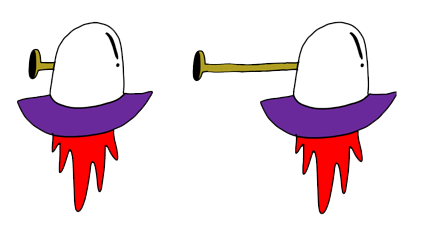
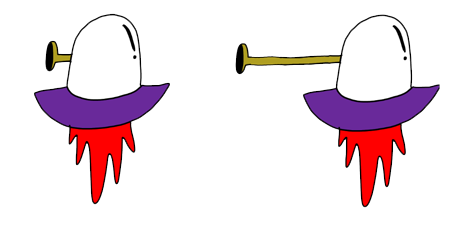
add enemy big

Changed region(s): [[0.4282, 0.0617, 0.9788, 0.9559], [0.0306, 0.0617, 0.3976, 0.9251], [0.3059, 0.4934, 0.3365, 0.5242]]

diff --git a/ProjectGame/main.cpp b/ProjectGame/main.cpp
@@ -10,6 +10,7 @@
 #include "Player.h"
 #include "Bullet.h"
 #include "Enemy.h"
+#include "Enemy1.h"
 #include "Animation.h"
 #include "Mainmenu.h"
 #include "Gameover.h"
@@ -138,9 +139,9 @@ int main()
 	vector<Enemy> enemies4;
 	
 	sf::Texture enemyBig;
-	enemyBig.loadFromFile("enemy/bigg.png");
-	Enemy Enemybig1(&enemyBig);
-	vector<Enemy> enemies5;
+	enemyBig.loadFromFile("enemy/big1.png");
+	Enemy1 Enemybig1(&enemyBig);
+	vector<Enemy1> enemies5;
 
 
 	//enemies animation
@@ -348,7 +349,7 @@ int main()
 
 		if (Howtoplaystate == 1)
 		{
-			cout << flag[1];
+			/*cout << flag[1];*/
 			window.draw(bc);
 
 			if (bc.getGlobalBounds().contains(sf::Vector2f(sf::Mouse::getPosition(window))))
@@ -461,10 +462,10 @@ int main()
 					enemies4.push_back(Enemy(Enemymedium2));
 				}
 
-				if (CountTime >= 120)
+				if (CountTime >= 0)
 				{
-					Enemybig1.Sprite_enemy.setPosition(window.getSize().x, rand() % int(window.getSize().y - Enemybig1.Sprite_enemy.getSize().y));
-					enemies5.push_back(Enemy(Enemybig1));
+					Enemybig1.Sprite_enemy_1.setPosition(window.getSize().x, rand() % int(window.getSize().y - Enemybig1.Sprite_enemy_1.getSize().y));
+					enemies5.push_back(Enemy1(Enemybig1));
 				}
 
 				enemySpawnTimer = 0;
@@ -513,7 +514,7 @@ int main()
 			for (int i = 0; i < enemies5.size(); i++)
 			{
 				enemies5[i].Update(deltatime, i);
-				if (enemies5[i].Sprite_enemy.getPosition().x < -130)
+				if (enemies5[i].Sprite_enemy_1.getPosition().x < -130)
 				{
 					enemies5.erase(enemies5.begin() + i);
 				}
@@ -611,13 +612,13 @@ int main()
 				for (size_t j = 0; j < enemies5.size(); j++)
 				{
 
-					if (bullets[i].Sprite_bullet.getGlobalBounds().intersects(enemies5[j].Sprite_enemy.getGlobalBounds()))
+					if (bullets[i].Sprite_bullet.getGlobalBounds().intersects(enemies5[j].Sprite_enemy_1.getGlobalBounds()))
 					{
 						enemies5[i].bloodenemybig--;
 						bullets.erase(bullets.begin() + i);
 						if (enemies5[i].bloodenemybig == 0)
 						{
-							score += 50;
+							score += 30;
 							enemies5.erase(enemies5.begin() + j);
 
 						}
@@ -668,7 +669,7 @@ int main()
 
 			for (size_t i = 0; i < enemies5.size(); i++)
 			{
-				if (player.Sprite_ship.getGlobalBounds().intersects(enemies5[i].Sprite_enemy.getGlobalBounds()))
+				if (player.Sprite_ship.getGlobalBounds().intersects(enemies5[i].Sprite_enemy_1.getGlobalBounds()))
 				{
 					enemies5.erase(enemies5.begin() + i);
 					blood -= 1;
@@ -704,8 +705,7 @@ int main()
 			for (Background& background : backgrounds)
 				background.Draw(window);
 
-			//draw pausebutton
-			pausemenu.Draw(window);
+			
 
 			player.Update();
 			player.move(deltatime);
@@ -754,6 +754,9 @@ int main()
 
 			//draw text
 			window.draw(textscore);
+
+			//draw pausebutton
+			pausemenu.Draw(window);
 
 			//draw heart
 			if (blood == 6)

diff --git a/ProjectGame/Mainmenu.cpp b/ProjectGame/Mainmenu.cpp
@@ -9,7 +9,7 @@ Mainmenu::Mainmenu(float width, float height)
 	mainMenu[0].setFillColor(sf::Color::Black);
 	mainMenu[0].setString("PLAYGAME");
 	mainMenu[0].setCharacterSize(50);
-	mainMenu[0].setPosition(490, 270);
+	mainMenu[0].setPosition(495, 270);
 	mainMenu[0].setOrigin(mainMenu[0].getGlobalBounds().width / 2, mainMenu[0].getGlobalBounds().height / 2);
 
 	//how to play
@@ -17,7 +17,7 @@ Mainmenu::Mainmenu(float width, float height)
 	mainMenu[1].setFillColor(sf::Color::Black);
 	mainMenu[1].setString("HOW TO PLAY");
 	mainMenu[1].setCharacterSize(50);
-	mainMenu[1].setPosition(480, 340);
+	mainMenu[1].setPosition(485, 340);
 	mainMenu[1].setOrigin(mainMenu[1].getGlobalBounds().width / 2, mainMenu[1].getGlobalBounds().height / 2);
 
 	//score
@@ -25,7 +25,7 @@ Mainmenu::Mainmenu(float width, float height)
 	mainMenu[2].setFillColor(sf::Color::Black);
 	mainMenu[2].setString("SCORE");
 	mainMenu[2].setCharacterSize(50);
-	mainMenu[2].setPosition(475, 410);
+	mainMenu[2].setPosition(480, 410);
 	mainMenu[2].setOrigin(mainMenu[2].getGlobalBounds().width / 2, mainMenu[2].getGlobalBounds().height / 2);
 
 	//quit
@@ -33,7 +33,7 @@ Mainmenu::Mainmenu(float width, float height)
 	mainMenu[3].setFillColor(sf::Color::Black);
 	mainMenu[3].setString("QUIT");
 	mainMenu[3].setCharacterSize(50);
-	mainMenu[3].setPosition(470, 480);
+	mainMenu[3].setPosition(475, 480);
 	mainMenu[3].setOrigin(mainMenu[3].getGlobalBounds().width / 2, mainMenu[3].getGlobalBounds().height / 2);
 
 	

diff --git a/ProjectGame/Enemy1.cpp b/ProjectGame/Enemy1.cpp
@@ -1,0 +1,45 @@
+#include "Enemy1.h"
+
+Enemy1::Enemy1(sf::Texture* texture)
+{
+	Sprite_enemy_1.setTexture(texture);
+	Sprite_enemy_1.setSize(sf::Vector2f(texture->getSize().x / 2, texture->getSize().y));
+	enemyposition_1.x = texture->getSize().x / 2;
+	enemyposition_1.y = texture->getSize().y;
+	sf::Vector2f spawnpoint = { 1000.f,256.f };
+	Sprite_enemy_1.setPosition(spawnpoint);
+	Sprite_enemy_1.setScale(1.25, 1.25);
+
+}
+
+Enemy1::~Enemy1()
+{
+}
+
+void Enemy1::Update(float deltatime, int i)
+{
+	Sprite_enemy_1.move(deltatime * -200, cos(i));
+	if (cos(i) > 0)
+	{
+		Sprite_enemy_1.setTextureRect(sf::IntRect(enemyposition_1.x * 0, enemyposition_1.y * 1, enemyposition_1.x, enemyposition_1.y));
+	}
+	if (cos(i) < 0)
+	{
+		Sprite_enemy_1.setTextureRect(sf::IntRect(enemyposition_1.x * 0, enemyposition_1.y * 0, enemyposition_1.x, enemyposition_1.y));
+	}
+	else
+	{
+		Sprite_enemy_1.setTextureRect(sf::IntRect(enemyposition_1.x * 0, enemyposition_1.y * 1, enemyposition_1.x, enemyposition_1.y));
+
+	}
+
+}
+
+void Enemy1::Draw(sf::RenderWindow& window)
+{
+	window.draw(Sprite_enemy_1);
+}
+
+void Enemy1::move(float deltatime)
+{
+}

diff --git a/ProjectGame/Enemy1.h b/ProjectGame/Enemy1.h
@@ -1,0 +1,26 @@
+#pragma once
+#include <SFML/Graphics.hpp>
+class Enemy1
+{
+public:
+	sf::RectangleShape Sprite_enemy_1;
+	sf::Vector2f enemyposition_1;
+
+	Enemy1(sf::Texture* texture);
+	~Enemy1();
+
+	void Update(float deltatime, int i);
+	void Draw(sf::RenderWindow& window);
+	void move(float deltatime);
+
+	int bloodenemybig = 3;
+	float dx = 0;
+	float dy = 0;
+	float speed = 150;
+private:
+	int offsetanimation = 1;
+	float offset = 0;
+
+	sf::Vector2f imageSize;
+};
+

diff --git a/ProjectGame/Enemy.cpp b/ProjectGame/Enemy.cpp
@@ -8,7 +8,6 @@ Enemy::Enemy(sf::Texture* texture)
 	enemyposition.y = texture->getSize().y / 3;
 	sf::Vector2f spawnpoint = { 1000.f,256.f };
 	Sprite_enemy.setPosition(spawnpoint);
-
 }
 
 Enemy::~Enemy() { }
@@ -19,7 +18,6 @@ void Enemy::Update(float deltatime , int i)
 	if (cos(i) > 0)
 	{
 		Sprite_enemy.setTextureRect(sf::IntRect(enemyposition.x * 0, enemyposition.y * 0, enemyposition.x, enemyposition.y));
-
 	}
 	if (cos(i) < 0)
 	{

diff --git a/ProjectGame/Enemy.h b/ProjectGame/Enemy.h
@@ -15,10 +15,9 @@ public:
 	void move(float deltatime);
 	
 	int bloodenemymedium = 2;
-	int bloodenemybig = 3;
 	float dx = 0;
 	float dy = 0;
-	float speed = 150;
+	float speed = 100;
 private:
 	int offsetanimation = 1;
 	float offset = 0;
